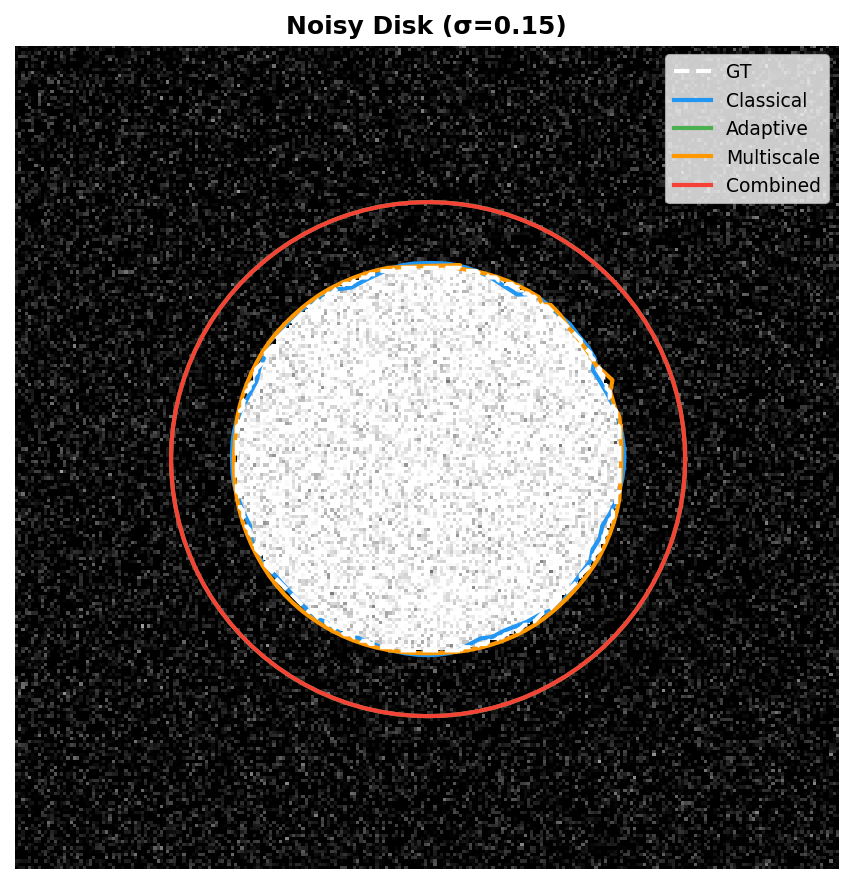
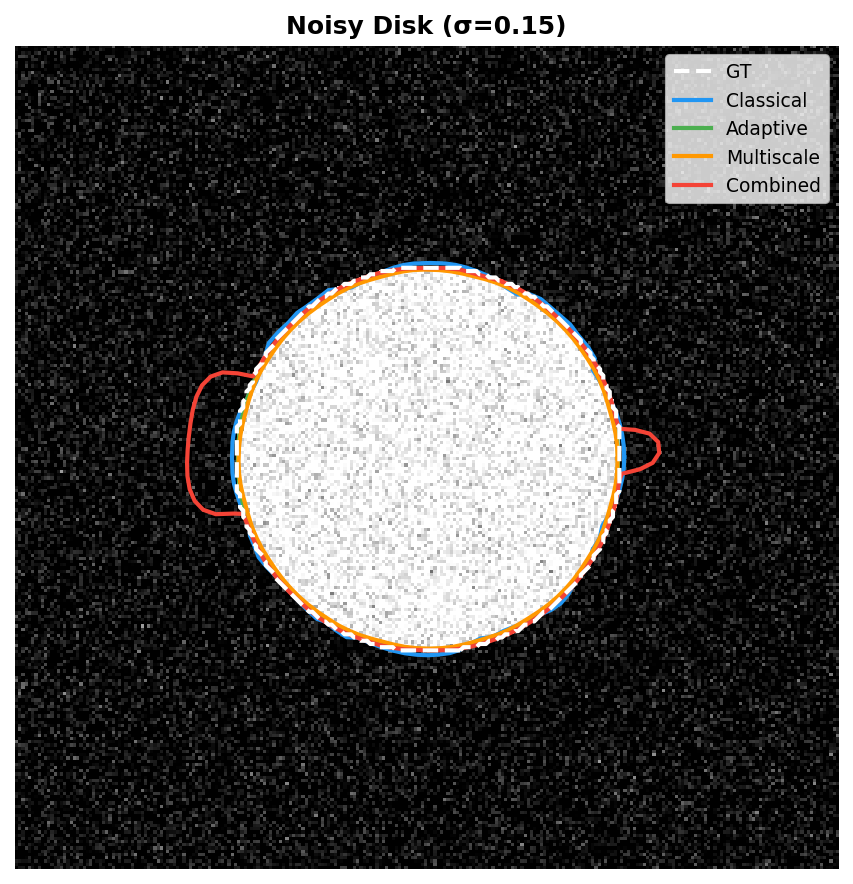
Try adjusting parameters to achieve stable result

diff --git a/src/adaptive_snake.py b/src/adaptive_snake.py
@@ -30,12 +30,13 @@ class AdaptiveSnake:
         self,
         alpha=0.015,
         beta_min=0.005,
-        beta_max=0.3,
-        k=5.0,           # sensitivity to gradient magnitude
-        gamma=100.0,     # implicit time-step (larger = more stable, smaller steps)
-        sigma=2.0,       # smoothing for external energy
-        n_iter=500,
-        update_every=20, # recompute adaptive matrix every N iterations
+        beta_max=0.05,
+        k=10.0,           # sensitivity to gradient magnitude
+        gamma=5.0,      # implicit time-step: step ≈ F/gamma; keep small so forces move the snake
+        sigma=6.0,      # smoothing for external energy; larger → longer-range force field
+        n_iter=800,
+        update_every=10,   # recompute adaptive matrix every N iterations
+        reparam_every=50,  # redistribute points by arc length every N iterations (0 = off)
         wline=0.0,
         wedge=1.0,
     ):
@@ -47,6 +48,7 @@ class AdaptiveSnake:
         self.sigma = sigma
         self.n_iter = n_iter
         self.update_every = update_every
+        self.reparam_every = reparam_every
         self.wline = wline
         self.wedge = wedge
 
@@ -89,6 +91,25 @@ class AdaptiveSnake:
             map_coordinates(fy, coords, order=1, mode="nearest"),
             map_coordinates(fx, coords, order=1, mode="nearest"),
         )
+
+    @staticmethod
+    def _reparameterize(snake):
+        """Redistribute snake points uniformly by arc length (closed curve)."""
+        # Arc is measured from snake[0]; the closing segment snake[-1]→snake[0]
+        # is intentionally excluded from redistribution to avoid placing new
+        # points into potentially noisy inter-level regions.
+        diffs = np.diff(snake, axis=0, prepend=snake[[-1]])
+        arc = np.cumsum(np.linalg.norm(diffs, axis=1))
+        arc -= arc[0]   # arc[0]=0, arc[-1] = open-curve length (excl. closing segment)
+        total = arc[-1]
+        if total < 1e-8:
+            return snake
+        uniform = np.linspace(0, total, len(snake), endpoint=False)
+        arc_ext = np.append(arc, total + arc[1])  # small extension for edge interpolation
+        snake_ext = np.vstack([snake, snake[0]])
+        new_y = np.interp(uniform, arc_ext, snake_ext[:, 0])
+        new_x = np.interp(uniform, arc_ext, snake_ext[:, 1])
+        return np.column_stack([new_y, new_x])
 
     # ------------------------------------------------------------------
     # Public API
@@ -135,6 +156,9 @@ class AdaptiveSnake:
 
             snake[:, 0] = np.clip(yn, 0, h - 1)
             snake[:, 1] = np.clip(xn, 0, w - 1)
+
+            if self.reparam_every > 0 and (it + 1) % self.reparam_every == 0:
+                snake = self._reparameterize(snake)
 
             if (it + 1) % self.update_every == 0:
                 history.append(snake.copy())

diff --git a/src/combined_snake.py b/src/combined_snake.py
@@ -21,20 +21,21 @@ class CombinedSnake(AdaptiveSnake):
     def __init__(
         self,
         sigma_coarse=8.0,
+        sigma_fine=3.0,   # force field involves 2nd-order derivatives; noise ∝ 1/σ², so keep σ≥3
         n_levels=3,
         n_iter_per_level=None,
         **adaptive_kwargs,
     ):
         super().__init__(**adaptive_kwargs)
         self.sigma_coarse = sigma_coarse
+        self.sigma_fine = sigma_fine
         self.n_levels = n_levels
-        # Distribute total iterations across levels
         total = adaptive_kwargs.get("n_iter", 500)
         self.n_iter_per_level = n_iter_per_level or max(1, total // n_levels)
 
     def _build_pyramid(self, image):
         """Coarsest-first list of smoothed images."""
-        sigmas = np.linspace(self.sigma_coarse, 0.5, self.n_levels)
+        sigmas = np.linspace(self.sigma_coarse, self.sigma_fine, self.n_levels)
         return [gaussian(image.astype(float), sigma=s) for s in sigmas]
 
     def fit(self, image, init_snake):
@@ -55,13 +56,11 @@ class CombinedSnake(AdaptiveSnake):
         h, w = image.shape
         history = [snake.copy()]
 
-        orig_n_iter = self.n_iter
-        self.n_iter = self.n_iter_per_level
-
         for level_img in pyramid:
-            # External forces computed on level image but adaptive weights use original
+            # Pyramid image is already smoothed — use minimal extra sigma to avoid
+            # double-blurring, which would misplace the force field.
             fy, fx = compute_external_forces(
-                level_img, sigma=self.sigma, wline=self.wline, wedge=self.wedge
+                level_img, sigma=0.5, wline=self.wline, wedge=self.wedge
             )
             fscale = max(np.abs(fx).max(), np.abs(fy).max(), 1e-8)
             fx = fx / fscale
@@ -70,7 +69,6 @@ class CombinedSnake(AdaptiveSnake):
             inv = None
             for it in range(self.n_iter_per_level):
                 if it % self.update_every == 0:
-                    # Adaptive weights evaluated on the original (non-blurred) image
                     beta_arr = self._adaptive_beta(image, snake)
                     A = self._build_matrix(n, beta_arr)
                     inv = np.linalg.inv(A + self.gamma * np.eye(n))
@@ -81,7 +79,9 @@ class CombinedSnake(AdaptiveSnake):
                 snake[:, 0] = np.clip(yn, 0, h - 1)
                 snake[:, 1] = np.clip(xn, 0, w - 1)
 
+                if self.reparam_every > 0 and (it + 1) % self.reparam_every == 0:
+                    snake = self._reparameterize(snake)
+
             history.append(snake.copy())
 
-        self.n_iter = orig_n_iter
         return snake, history

diff --git a/src/multiscale_snake.py b/src/multiscale_snake.py
@@ -24,7 +24,8 @@ class MultiscaleSnake:
         alpha=0.015,
         beta=0.1,
         gamma=0.001,
-        sigma_coarse=8.0,  # Gaussian sigma at the coarsest level
+        sigma_coarse=4.0,
+        sigma_fine=1.5,
         n_levels=3,
         n_iter_per_level=None,
         n_iter=2500,
@@ -36,16 +37,25 @@ class MultiscaleSnake:
         self.beta = beta
         self.gamma = gamma
         self.sigma_coarse = sigma_coarse
+        self.sigma_fine = sigma_fine
         self.n_levels = n_levels
         self.n_iter = n_iter
-        self.n_iter_per_level = n_iter_per_level or max(1, n_iter // n_levels)
+        # Weight iterations toward coarse levels so elastic propagation has time
+        # to pull far-away points into the force field before refining.
+        if n_iter_per_level is not None:
+            self.iters_per_level = [n_iter_per_level] * n_levels
+        else:
+            base = max(1, n_iter // n_levels)
+            self.iters_per_level = [base * (n_levels - i) // n_levels
+                                    for i in range(n_levels)]
+            self.iters_per_level[-1] = max(base, n_iter - sum(self.iters_per_level[:-1]))
         self.wline = wline
         self.wedge = wedge
         self.boundary_condition = boundary_condition
 
     def _build_pyramid(self, image):
         """Return list of smoothed images, coarsest first."""
-        sigmas = np.linspace(self.sigma_coarse, 0.5, self.n_levels)
+        sigmas = np.linspace(self.sigma_coarse, self.sigma_fine, self.n_levels)
         return [gaussian(image.astype(float), sigma=s) for s in sigmas]
 
     def fit(self, image, init_snake):
@@ -64,7 +74,7 @@ class MultiscaleSnake:
         snake = init_snake.copy().astype(float)
         history = [snake.copy()]
 
-        for level_img in pyramid:
+        for level_img, n_iter in zip(pyramid, self.iters_per_level):
             snake = active_contour(
                 level_img,
                 snake,
@@ -73,7 +83,7 @@ class MultiscaleSnake:
                 gamma=self.gamma,
                 w_line=self.wline,
                 w_edge=self.wedge,
-                max_num_iter=self.n_iter_per_level,
+                max_num_iter=n_iter,
                 boundary_condition=self.boundary_condition,
             )
             history.append(snake.copy())

diff --git a/main.py b/main.py
@@ -58,12 +58,15 @@ def main():
         "Classical": ClassicalSnake(alpha=0.015, beta=0.1, gamma=0.001,
                                     sigma=2.0, n_iter=2500),
         "Adaptive":  AdaptiveSnake(alpha=0.015, beta_min=0.005, beta_max=0.3,
-                                   k=5.0, gamma=100.0, sigma=2.0, n_iter=500),
+                                   k=5.0, gamma=5.0, sigma=8.0, n_iter=2000,
+                                   reparam_every=50),
         "Multiscale": MultiscaleSnake(alpha=0.015, beta=0.1, gamma=0.001,
-                                      sigma_coarse=8.0, n_levels=3, n_iter=2500),
+                                      sigma_coarse=4.0, sigma_fine=1.5,
+                                      n_levels=3, n_iter=2500),
         "Combined":  CombinedSnake(alpha=0.015, beta_min=0.005, beta_max=0.3,
-                                   k=5.0, gamma=100.0, sigma=2.0, n_iter=500,
-                                   sigma_coarse=8.0, n_levels=3),
+                                   k=5.0, gamma=5.0, sigma=8.0, n_iter=2000,
+                                   reparam_every=50, sigma_coarse=8.0,
+                                   sigma_fine=3.0, n_levels=3),
     }
 
     results, snakes = {}, {}

diff --git a/experiments/run_experiments.py b/experiments/run_experiments.py
@@ -61,16 +61,17 @@ def build_methods():
         ),
         "Adaptive": AdaptiveSnake(
             alpha=0.015, beta_min=0.005, beta_max=0.3, k=5.0,
-            gamma=100.0, sigma=2.0, n_iter=500, update_every=20, wedge=1.0
+            gamma=5.0, sigma=8.0, n_iter=800, update_every=20, wedge=1.0
         ),
         "Multiscale": MultiscaleSnake(
-            alpha=0.015, beta=0.1, gamma=0.001, sigma_coarse=8.0,
-            n_levels=3, n_iter=2500, wedge=1.0
+            alpha=0.015, beta=0.1, gamma=0.001, sigma_coarse=4.0,
+            sigma_fine=1.5, n_levels=3, n_iter=2500, wedge=1.0
         ),
         "Combined": CombinedSnake(
             alpha=0.015, beta_min=0.005, beta_max=0.3, k=5.0,
-            gamma=100.0, sigma=2.0, n_iter=500, update_every=20,
-            sigma_coarse=8.0, n_levels=3, wedge=1.0
+            gamma=5.0, sigma=8.0, n_iter=2000, update_every=20,
+            reparam_every=50, sigma_coarse=4.0, sigma_fine=3.0,
+            n_levels=3, wedge=1.0
         ),
     }
 
